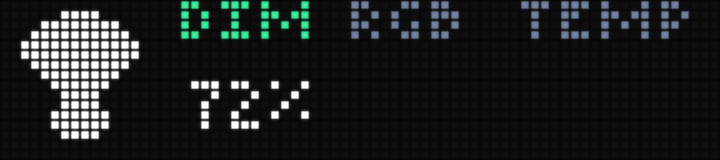
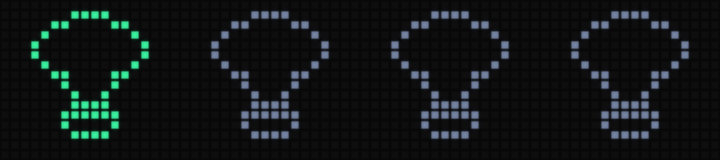
Refine Home Assistant preview

diff --git a/apps/home-assistant/app.py b/apps/home-assistant/app.py
@@ -43,22 +43,20 @@ COLOR_PRESETS: tuple[tuple[str, tuple[int, int, int]], ...] = (
 )
 
 LIGHT_BITMAP = (
-    "................",
-    "......####......",
-    "....########....",
-    "...##########...",
-    "..############..",
-    "..############..",
-    "...##########...",
-    "....########....",
-    ".....######.....",
-    "......####......",
-    "......####......",
-    ".....######.....",
-    ".....######.....",
-    "......####......",
-    "................",
-    "................",
+    ".....####.....",
+    "...##....##...",
+    "..#........#..",
+    ".#..........#.",
+    ".#..........#.",
+    "..#........#..",
+    "...##....##...",
+    "....#....#....",
+    ".....#..#.....",
+    ".....####.....",
+    "....######....",
+    "....#....#....",
+    ".....####.....",
+    "..............",
 )
 
 
@@ -101,9 +99,9 @@ def icon_png(size: int, color: tuple[int, int, int]) -> bytes:
     rows = bytearray()
     for y in range(size):
         rows.append(0)
-        source_y = min(15, y * 16 // size)
+        source_y = min(13, y * 14 // size)
         for x in range(size):
-            source_x = min(15, x * 16 // size)
+            source_x = min(13, x * 14 // size)
             alpha = 255 if LIGHT_BITMAP[source_y][source_x] == "#" else 0
             rows.extend((*color, alpha))
     header = struct.pack(">IIBBBBB", size, size, 8, 6, 0, 0, 0)
@@ -321,8 +319,8 @@ class App:
     async def upload_icons(self) -> None:
         assets = {
             "ha-light-active.png": icon_png(14, (99, 230, 190)),
-            "ha-light-inactive.png": icon_png(10, (255, 255, 255)),
-            "ha-light-control.png": icon_png(16, (255, 255, 255)),
+            "ha-light-inactive.png": icon_png(14, (168, 178, 195)),
+            "ha-light-control.png": icon_png(14, (255, 255, 255)),
             "ha-light-back.png": icon_png(40, (255, 255, 255)),
             "ha-blank.png": icon_png(1, (0, 0, 0)),
         }
@@ -352,8 +350,8 @@ class App:
                     types.ImageElement(
                         id=f"front_image_{slot}",
                         display=types.DisplayName.FRONT,
-                        x=slot * 18 + (0 if active else 2),
-                        y=0 if active else 2,
+                        x=slot * 18 + 2,
+                        y=1,
                         path=(
                             "ha-light-active.png"
                             if active
@@ -427,14 +425,20 @@ class App:
 
         controls = light.controls
         self.control %= len(controls)
-        labels = {"brightness": "DIM", "color": "RGB", "temperature": "TEMP"}
+        back_labels = {"brightness": "DIM", "color": "RGB", "temperature": "TEMP"}
+        front_labels = {
+            "brightness": "BRIGHT",
+            "color": "COLOR",
+            "temperature": "TEMP",
+        }
+        selected_control = controls[self.control]
         elements: list[types.DisplayElement] = [
             types.ImageElement(
                 id="front_image_0",
                 display=types.DisplayName.FRONT,
-                x=0,
-                y=0,
-                path="ha-light-control.png",
+                x=1,
+                y=1,
+                path="ha-light-active.png" if light.is_on else "ha-light-inactive.png",
             ),
             *[
                 types.ImageElement(
@@ -446,28 +450,40 @@ class App:
                 )
                 for slot in range(1, 4)
             ],
+            text_element(
+                "front_text_0",
+                front_labels[selected_control],
+                18,
+                0,
+                color=ACCENT,
+            ),
+            text_element(
+                "front_text_1",
+                self.control_value(),
+                18,
+                8,
+                font="small",
+                color=ACCENT if self.navigation == "edit" else WHITE,
+            ),
+            text_element(
+                "front_text_2",
+                f"{self.control + 1}/{len(controls)}" if len(controls) > 1 else "",
+                70,
+                0,
+                color=MUTED,
+                align="top_right",
+            ),
+            text_element(
+                "front_text_3",
+                "EDIT" if self.navigation == "edit" else "",
+                70,
+                8,
+                color=ACCENT,
+                align="top_right",
+            ),
         ]
-        for index in range(3):
-            label = labels[controls[index]] if index < len(controls) else ""
-            elements.append(
-                text_element(
-                    f"front_text_{index}",
-                    label,
-                    (18, 35, 52)[index],
-                    0,
-                    color=ACCENT if index == self.control else MUTED,
-                )
-            )
         elements.extend(
             [
-                text_element(
-                    "front_text_3",
-                    self.control_value(),
-                    19,
-                    8,
-                    font="small",
-                    color=ACCENT if self.navigation == "edit" else WHITE,
-                ),
                 types.ImageElement(
                     id="back_icon",
                     display=types.DisplayName.BACK,
@@ -497,7 +513,7 @@ class App:
                 ),
                 text_element(
                     "back_state",
-                    f"{labels[controls[self.control]]}  ·  {self.control_value()}",
+                    f"{back_labels[selected_control]}  ·  {self.control_value()}",
                     58,
                     47,
                     display=types.DisplayName.BACK,
